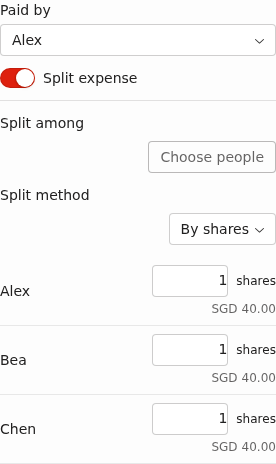
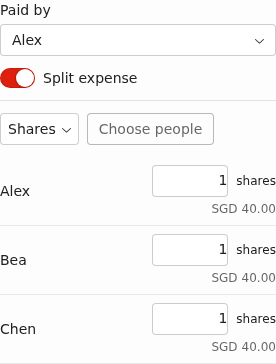
Group split controls above the allocation list

diff --git a/src/Expense/ExpenseSplitFields.tsx b/src/Expense/ExpenseSplitFields.tsx
@@ -16,6 +16,13 @@ import {
   toMinor,
 } from './ledger';
 
+const splitMethodLabels: Record<SplitMethod, string> = {
+  equal: 'Split equally',
+  exact: 'Exact amounts',
+  percent: 'Percentages',
+  shares: 'Shares',
+};
+
 export const ExpenseSplitFields = memo(function ExpenseSplitFields({
   trip,
   amount,
@@ -36,7 +43,6 @@ export const ExpenseSplitFields = memo(function ExpenseSplitFields({
     () => new Map(people.map((p) => [p.id, p])),
     [people],
   );
-  const methodId = useId();
   const splitRegionId = useId();
   const [paidInputs, setPaidInputs] = useState<Record<string, string>>({});
   const { method, shares } = value;
@@ -164,44 +170,15 @@ export const ExpenseSplitFields = memo(function ExpenseSplitFields({
           Split expense
         </Flex>
       </Text>
-      {value.method && (
+      {method && (
         <section
           id={splitRegionId}
           aria-label="Expense split"
           className={s.splitSection}
         >
-          <div className={s.controlRow}>
-            <Text size="2" className={s.peopleSummary}>
-              {value.shares.length ? 'Split among' : 'No people selected'}
-            </Text>
-            <div className={s.control}>
-              <TripPeopleDialog
-                trip={trip}
-                selected={value.shares.map((row) => row.participantId)}
-                disabled={disabled}
-                onApply={(ids) => {
-                  const sharesById = new Map(
-                    value.shares.map((row) => [row.participantId, row]),
-                  );
-                  patch({
-                    shares: ids.map(
-                      (participantId) =>
-                        sharesById.get(participantId) ?? {
-                          participantId,
-                          value: value.method === 'shares' ? '1' : '0',
-                        },
-                    ),
-                  });
-                }}
-              />
-            </div>
-          </div>
-          <div className={s.controlRow}>
-            <Text as="label" htmlFor={methodId} size="2">
-              Split method
-            </Text>
+          <Flex align="center" gap="2" wrap="wrap">
             <Select.Root
-              value={value.method}
+              value={method}
               disabled={disabled}
               onValueChange={(method) =>
                 patch({
@@ -218,15 +195,38 @@ export const ExpenseSplitFields = memo(function ExpenseSplitFields({
                 })
               }
             >
-              <Select.Trigger id={methodId} className={s.control} />
+              <Select.Trigger
+                className={s.methodSelect}
+                aria-label={`Split method: ${splitMethodLabels[method]}`}
+              />
               <Select.Content>
-                <Select.Item value="equal">Equally</Select.Item>
-                <Select.Item value="exact">By exact amounts</Select.Item>
-                <Select.Item value="percent">By percentage</Select.Item>
-                <Select.Item value="shares">By shares</Select.Item>
+                {Object.entries(splitMethodLabels).map(([id, label]) => (
+                  <Select.Item key={id} value={id}>
+                    {label}
+                  </Select.Item>
+                ))}
               </Select.Content>
             </Select.Root>
-          </div>
+            <TripPeopleDialog
+              trip={trip}
+              selected={shares.map((row) => row.participantId)}
+              disabled={disabled}
+              onApply={(ids) => {
+                const sharesById = new Map(
+                  shares.map((row) => [row.participantId, row]),
+                );
+                patch({
+                  shares: ids.map(
+                    (participantId) =>
+                      sharesById.get(participantId) ?? {
+                        participantId,
+                        value: method === 'shares' ? '1' : '0',
+                      },
+                  ),
+                });
+              }}
+            />
+          </Flex>
           <ul className={s.allocations} aria-label="Split amounts">
             {value.shares.map((row) => {
               const name = peopleById.get(row.participantId)?.name ?? 'Person';

diff --git a/src/Expense/ExpenseSplitFields.module.css b/src/Expense/ExpenseSplitFields.module.css
@@ -13,20 +13,10 @@
   padding-top: var(--space-3);
 }
 
-.controlRow,
-.allocationRow {
-  display: grid;
-  grid-template-columns: minmax(0, 1fr) auto;
-  align-items: center;
-  gap: var(--space-3);
+.methodSelect {
+  padding-inline: var(--space-2);
 }
 
-.control {
-  justify-self: end;
-  max-width: 100%;
-}
-
-.peopleSummary,
 .personName {
   overflow-wrap: anywhere;
 }
@@ -38,6 +28,10 @@
 }
 
 .allocationRow {
+  display: grid;
+  grid-template-columns: minmax(0, 1fr) auto;
+  align-items: center;
+  gap: var(--space-3);
   min-height: 2.5rem;
   padding-block: var(--space-2);
   border-bottom: 1px solid var(--gray-4);
@@ -68,11 +62,4 @@
   white-space: nowrap;
   font-variant-numeric: tabular-nums;
   text-align: right;
-}
-
-@container (max-width: 18rem) {
-  .controlRow {
-    grid-template-columns: minmax(0, 1fr);
-    gap: var(--space-2);
-  }
 }

diff --git a/docs/screenshots/expense-splitting/README.md b/docs/screenshots/expense-splitting/README.md
@@ -19,8 +19,8 @@ payments. All API responses are local fixtures. No real trip or account appears.
 | [Link account](12-link-account.png) | Open the popover from Chen's row. Find and link an account. |
 | [Mobile people](13-mobile-trip-people.png) | Manage trip people at 390px; access appears beneath each name. |
 | [Sharing](14-trip-sharing.png) | Share with a guest account; Joining stays optional. |
-| [Mobile split](15-mobile-inline-split.png) | Align the people picker, split method, and amounts at 390px. |
-| [Narrow split](16-narrow-inline-split.png) | Stack split controls at 320px while keeping amounts aligned. |
+| [Mobile split](15-mobile-inline-split.png) | Use the split method and Choose people on one row at 390px. |
+| [Narrow split](16-narrow-inline-split.png) | Use the same controls at 320px. |
 | [Narrow share split](17-narrow-share-split.png) | Edit share weights and read calculated amounts in the same row. |
 
 The QA runner writes a local accessibility report. It checks the calendar,
@@ -28,12 +28,12 @@ the 320px layout, and dark mode. Keyboard checks cover focus trapping, focus
 return after Escape, and date selection with the arrow keys and Enter.
 People table checks verify column alignment and horizontal fit on desktop,
 390px, and 320px, including inline renaming.
-Split controls and amount rows align at 320px, 390px, 1280px, and 1920px.
+The split controls share one row at 320px, 390px, 1280px, and 1920px.
 All four split methods fit at 320px. The section stops growing at 640px.
 
 The review fixed field labels, navigation names, calendar row semantics, and
 mobile summary overflow. The latest UX changes use gray outline header actions,
-native-currency totals, a split switch, a nearby people button, and a visible
-split-method label. Foreign conversion fields appear only for foreign currencies.
+native-currency totals, and a split switch. The split method and Choose people
+appear above the amounts. Foreign conversion fields appear only for foreign currencies.
 
 See [the runner instructions](../../../scripts/qa/README.md) to repeat the check.
